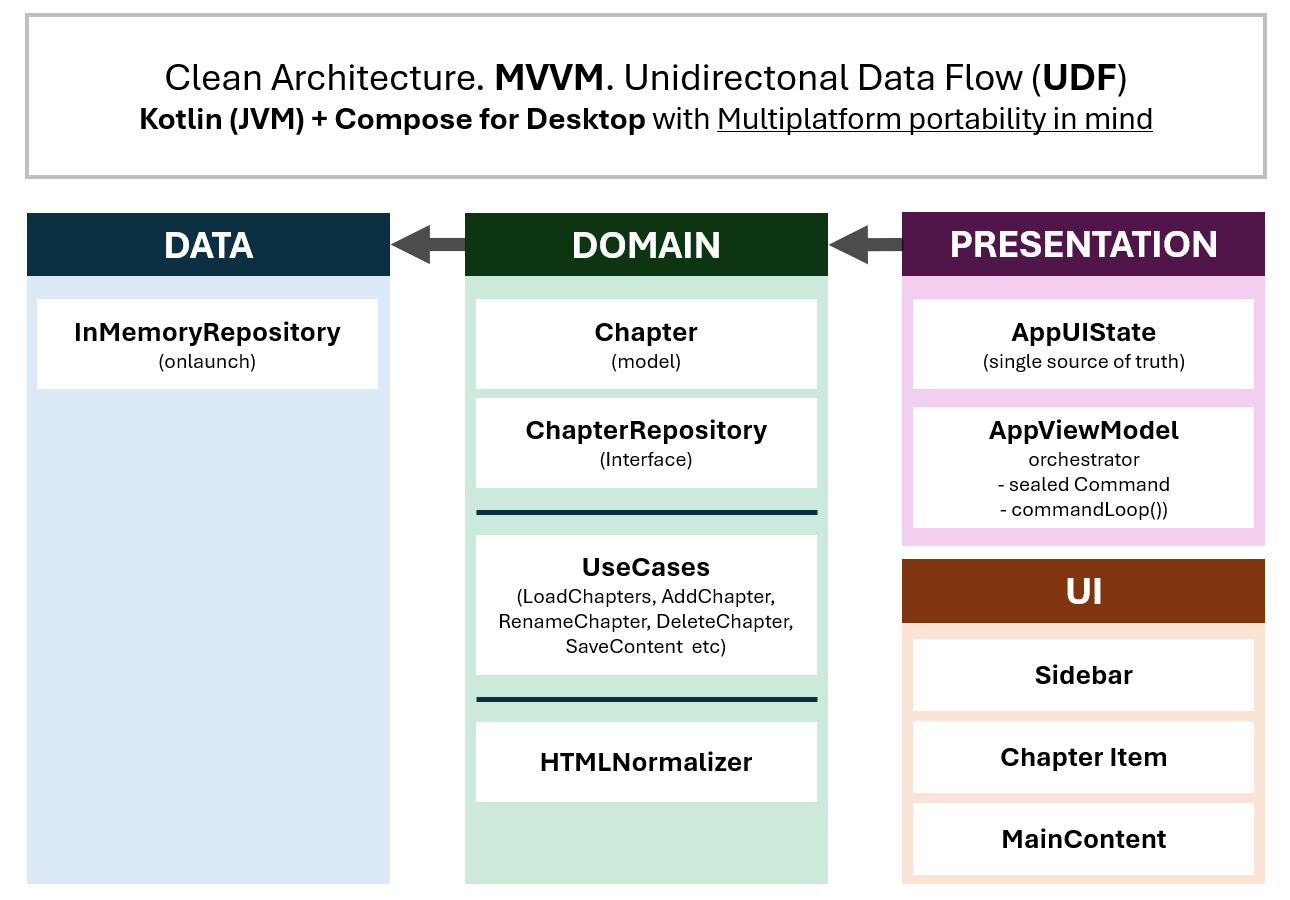
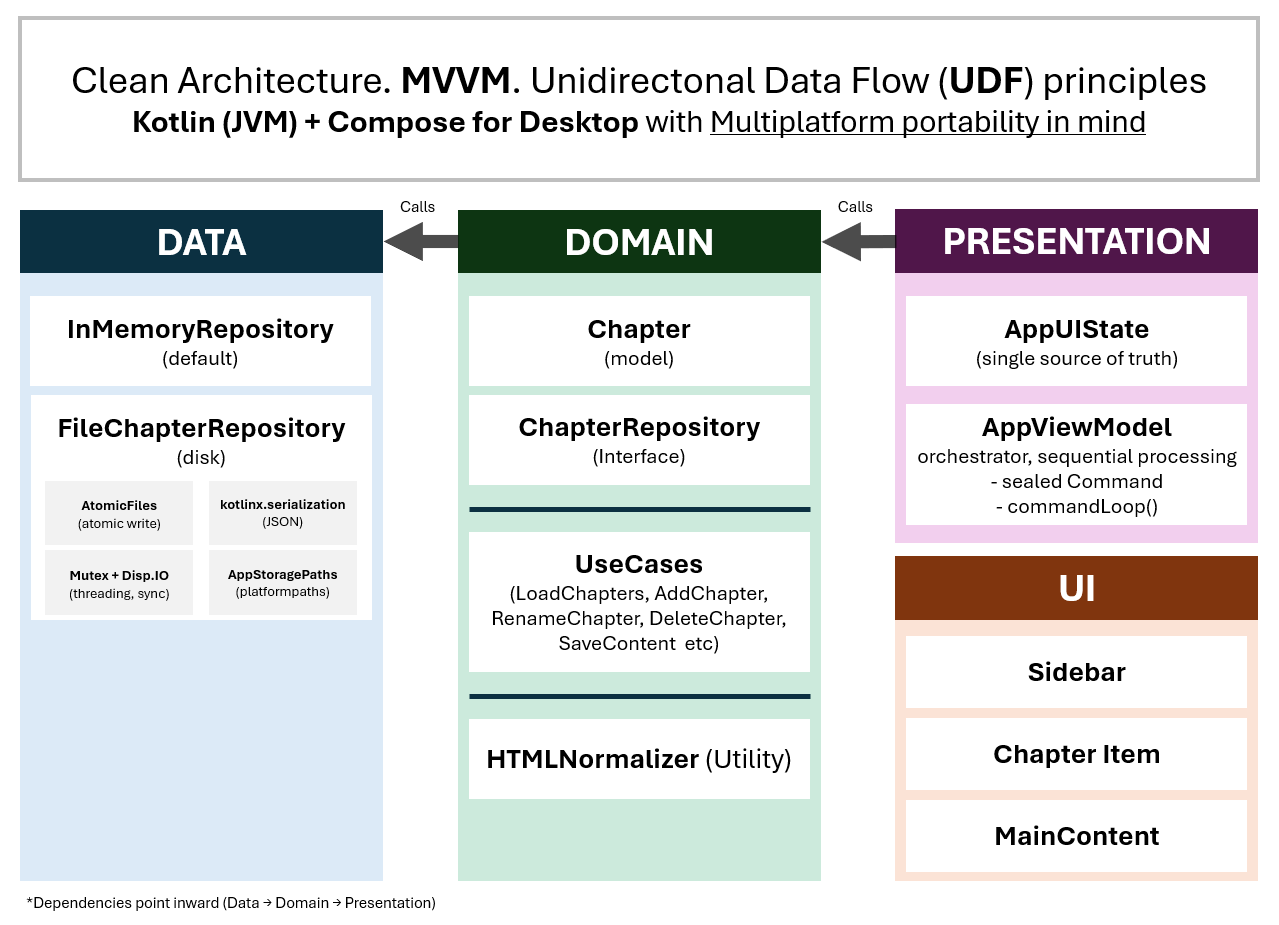
docs(readme): update

Changed region(s): [[0.0, 0.0, 1.0, 0.9956], [0.061, 0.0622, 0.9453, 0.1556]]

diff --git a/README.md b/README.md
@@ -3,8 +3,7 @@
 ## Overview
 This is a Kotlin Multiplatform (KMP) desktop application built with Compose Multiplatform.
 
-The purpose of this project is to demonstrate architecture rather than feature complexity. 
-The structure intentionally mirrors patterns used in large-scale applications.
+The purpose of this project is to demonstrate architecture rather than feature complexity.
 The application is intentionally over-structured relative to its size.
 
 The application is a chapter-based note editor supporting:
@@ -15,6 +14,10 @@ The application is a chapter-based note editor supporting:
 - Load chapter content
 - Edit and save content (with debouncing)
 - HTML content normalization
+- Persistent storage (JSON files, atomic writes)
+
+
+![UI](composeApp/docs/ui.png)
 
 ---
 
@@ -22,7 +25,7 @@ The application is a chapter-based note editor supporting:
 
 - **MVVM (Model–View–ViewModel)**
 - **Single Source of Truth**
-- **Unidirectional Data Flow (UDF)**
+- **Unidirectional Data Flow (UDF) principles**
 - **Layered architecture (Presentation / Domain / Data)**
 - **UseCase isolation for business logic**
 - **Repository abstraction**
@@ -34,6 +37,33 @@ The project is intentionally structured to be scalable and testable.
 ![Architecture Diagram](composeApp/docs/chart.png)
 
 ---
+
+## CI
+
+A basic GitHub Actions pipeline is included to verify that the project builds on CI.
+
+## Tests
+
+Basic JUnit tests are included for domain UseCases (currently Add / Delete).
+
+---
+
+## Data & Persistence (Desktop)
+
+Persistent storage is implemented via a file-based repository:
+
+- **FileChapterRepository**
+    - Stores chapters as `chapters/<uuid>.json`
+    - Stores ordering separately in `index.json`
+    - Uses a **Mutex** for thread-safety and `Dispatchers.IO`
+    - Contains basic **self-healing**: for orphan files not referenced in `index.json` 
+  
+
+- **AtomicFiles**
+    - Writes using a temp file + atomic move 
+
+---
+
 
 ## Build & Run (Desktop JVM)
 
@@ -47,12 +77,6 @@ The project is intentionally structured to be scalable and testable.
 
 ---
 
-## Future Extensions
-
-- Replace in-memory repository with persistent storage
-- Add unit tests for UseCases
-- Introduce integration tests
-- Add CI pipeline (GitHub Actions)
 
 ## Author
-Made by Kyrylo (Kira) in Bergen for demo-purposes, and to ease keeping track of characters, events and lore! 
+Made by Kyrylo (Kira) in Bergen for demo purposes and to make it easier to keep track of characters and events in the books I read!
